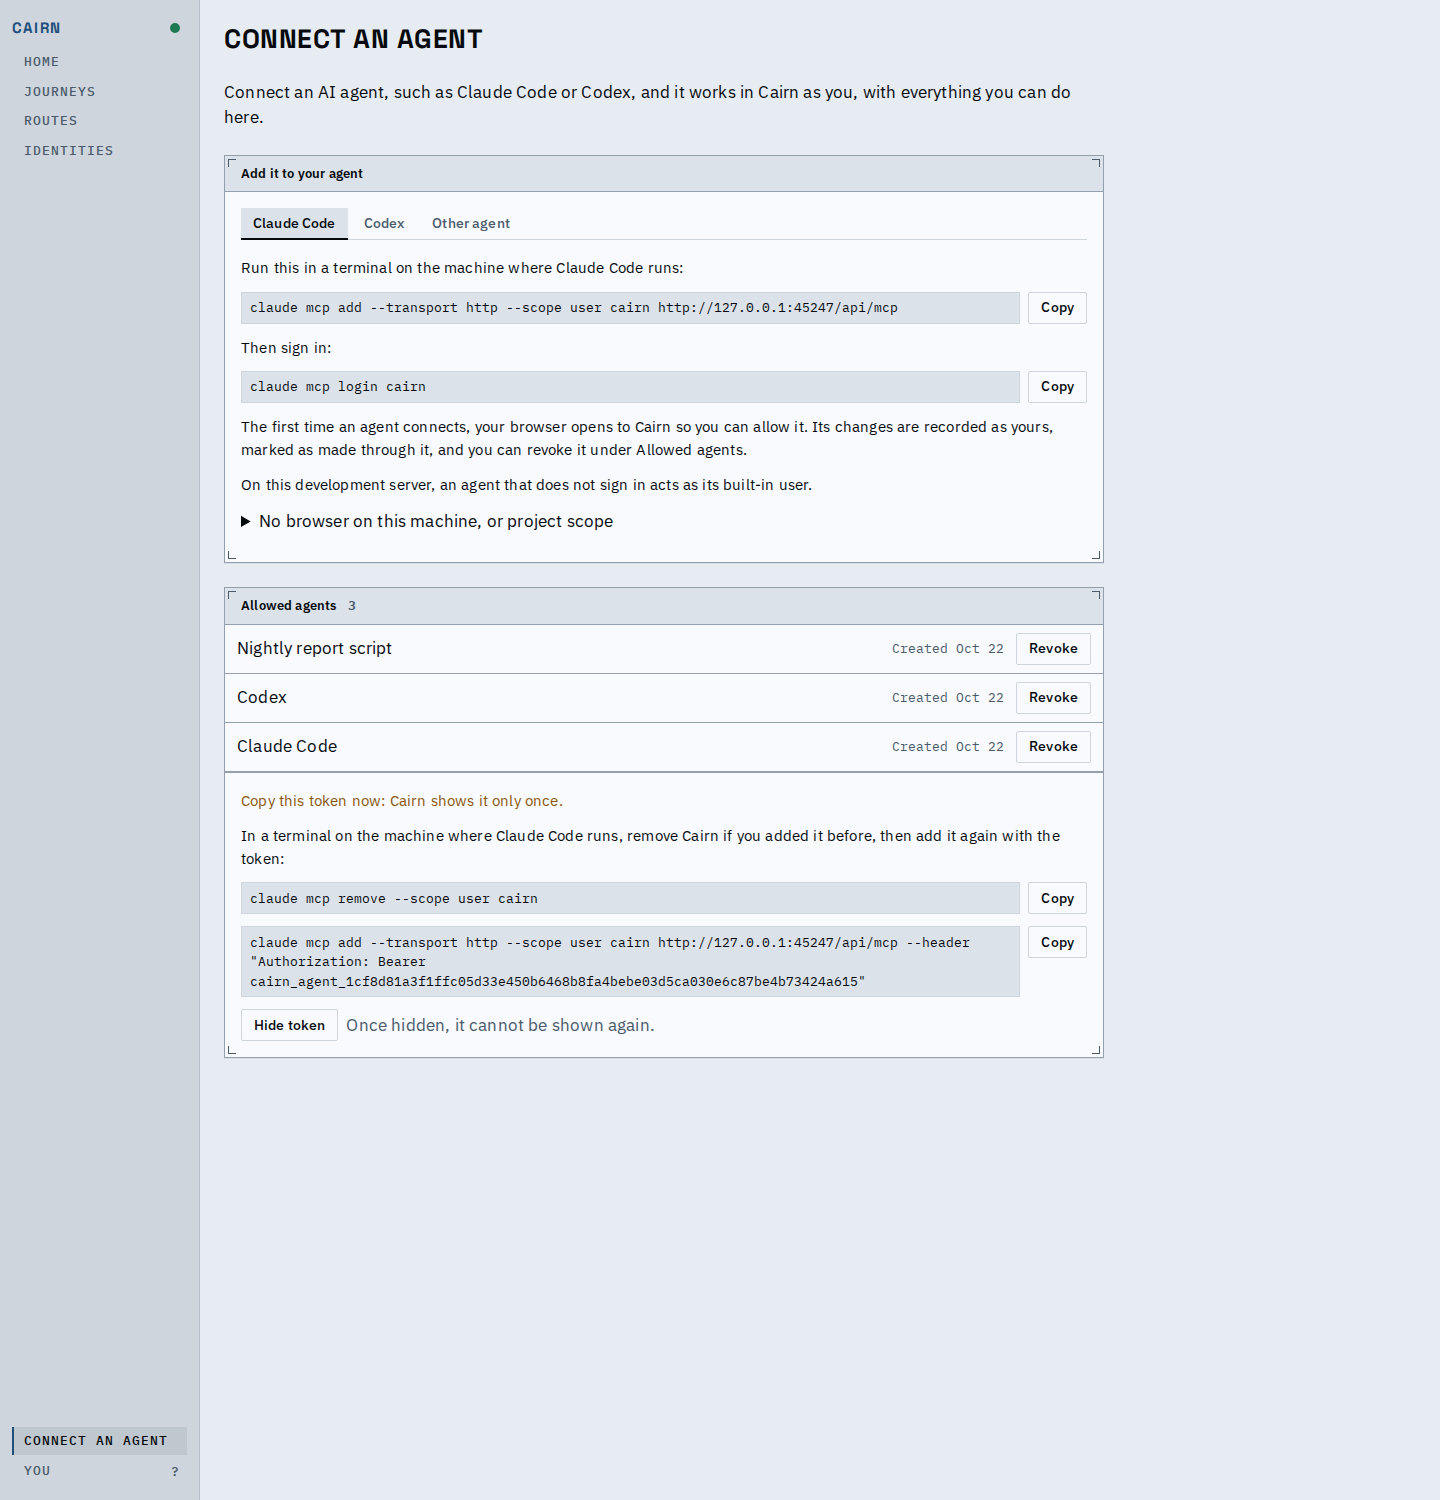
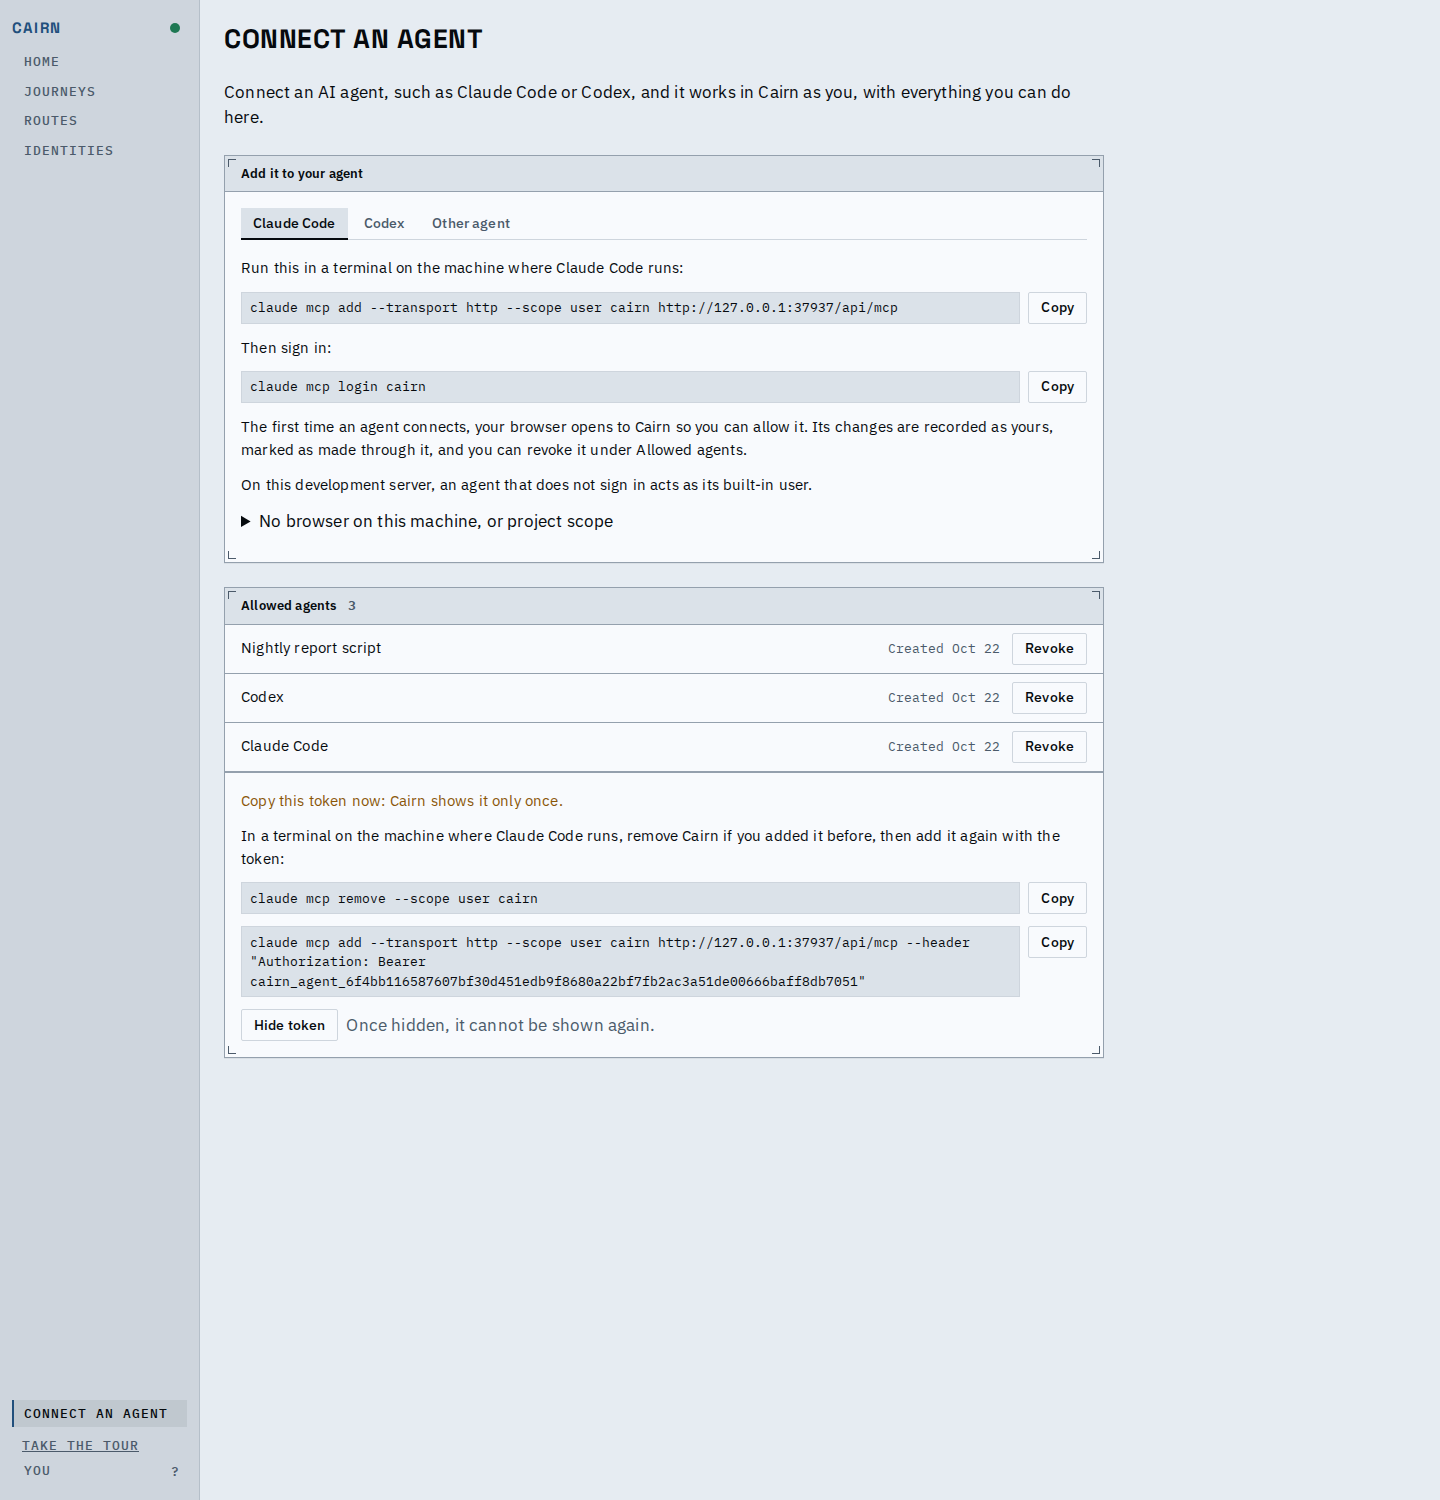
Align the allowed-agent rows with their panel's text
The rows of the Allowed agents panel sat 4px left of every other text
edge in the panel and were set larger than its body text. They now take
the panel body's 16px inset and 15px size. The design language's
one-line row rule says rows inside a panel that also holds text share
the panel's text edge. The two proof screenshots that show the rows
are retaken.

diff --git a/web/app/src/ui/app.css b/web/app/src/ui/app.css
@@ -1142,7 +1142,8 @@ table.data {
   align-items: center;
   gap: var(--space-3);
   min-height: 44px;
-  padding: var(--space-2) var(--space-3);
+  padding: var(--space-2) var(--space-4);
+  font-size: 15px;
   border-bottom: 1px solid var(--color-edge);
   background: var(--color-surface);
 }

diff --git a/DESIGN.md b/DESIGN.md
@@ -181,7 +181,7 @@ Mono uppercase is kept for labels, column headers, keys and status chips; button
 - **Label.** Uppercase Plex Mono 12px, letter-spacing .08em, steel. Use it for module titles, field labels above controls, and keys in key/value tables.
 - **Proposals panels.** Home's "Proposals to review" is one folded line after the journey groups, a count beside it ("Proposals to review 7"); opened, it holds the waiting rows, paged. The Journeys and Routes indexes' "Proposed" (only while a proposal would create one) is a bounded panel of the same rows. A row's second line says what the proposal changes, with the destination named before it where the list spans destinations, then "Needs a refresh" in warning ink ("Upgrades to version 2 and adds 1 node"); who proposed it is in the rail, not the row, and no row wears an OPEN chip. A destination's own open proposals are the Proposals tab of its inspector column, the open one marked current like a selected row. Identities has no panel of its own: it has the tab.
 - **Proposal layer.** Reviewing a proposal is the destination's own page with a layer on, never a screen or a View picker entry: the header, the View picker and the shared view controls stay, and the views draw the destination as it would be after the proposal, removed things put back in place and ghosted. The layer adds one line under the header, the band: `Reviewing "<title>"` (ellipsised, whole in its `title`), then Apply (primary) and Close (a plain button); a proposal that creates its destination says so in the same line. Changes are marked by what scales with the card, so they read at every zoom and on a phone: a fill (`--color-add`, `--color-change`, `--color-del`), a 2px edge on screen in the change's ink (the card's own border draws nothing beside it) whose style is the non-colour cue (solid added, dotted changed, dashed removed; the title struck and the card ghosted for removed), an accent outline outside the card for an item that needs a choice, and the change's word ("Added", "Changed", "Removed") leading the card's own kind line, so the kind takes the ellipsis before the word does and keeps room for it (the choice is said by the outline, the rail's fold and the card's title attribute, not by a longer word); a changed card's title and words stay at full ink however finished it is. A container carries the fill on its head band and the edge on its outline. Lists and the timeline fill the row and lead with the word (a narrow Change column in the list, on a phone too); Identities' rows take the fill and the word before the name. The graph opens framed on the changed cards (see the stock view above). The rail is the Inspector tab's content: the title, a status chip only when the proposal is not open, the notes that hold Apply or qualify the preview ("Apply waits for ...", without counts; before the attribution, so a sheet at its peek says what is to be done), who proposed it, one sentence of what it changes, then folds (Needs a choice with its count, open when it has any; Changes, whose head is the key, a swatch and count per group; what can be acted on after; all its changes) and Discard at the foot. Picking a card or row opens its item editor in the rail, with a way back to the proposal. A held Apply is `aria-disabled`, says why in its `title`, and pressing it focuses the rail's hold line. While the layer is on, in any of its states, the page offers no live write (node actions, authoring, the header's write items, the graph's menu); the Walkthrough and the Summary stay in the View picker, disabled with their reason, and their keys leave the key sheet. An archived journey's pages offer no write either, beyond un-archiving and deleting under `⋯`, Status. A control that cannot act is absent, not disabled: a node's menu keeps only where to find it.
-- **Table.** The one row component for every list of nodes (the Plan list, the frontier, folds, Home, decision lists): opaque paper rows with a `--color-edge` hairline under each, the table inside a bordered panel on the ground, a status chip column and an owner column (which, with the other columns that give way, leaves a list narrower than 810px: a phone, or a window with the inspector open, so the title keeps room for its buttons; on a phone a tree stops indenting after two levels). Rows have room (a two-line row about 64px, a one-line row 8px 12px padding); vertical hairlines between columns only in data tables opened in full. The header is a sticky band with steel labels, uppercase mono in a data table and sentence case in the Plan list, where a column that sorts is a button. Numbers are right-aligned mono with tabular figures, and secondary parts of a cell (a percentage, a rank) are steel. Hover is a neutral tint. A tree is a classic tree: for each ancestor with more children below, a continuous 1px `--color-border` vertical line through the full row height (across the row hairlines) centred on that ancestor's chevron, and for the row itself a `├` or, as the last child, a `└` joining the line to its chevron or bullet. A container's fold is a real 24px icon button with a 12px chevron in `--color-text`; a leaf has a small bullet in the same slot, so every title starts at its level's 24px column. A container row (a group or a stage) is a `--color-band` row with a 600-weight title and its progress, so it reads as the header of the rows under it. A tree keeps the levels a person opened or folded when the row set changes (a filter, Show not relevant). A primary table is its region's scroller, so its sticky header sticks to the right box; secondary tables (inside the inspector or a card) never scroll and end in "Show all" instead. A journey or route index row has a second line of context under its name; an absent figure is said in words (not a dash); and at phone width a row stacks as a block: the name, an upgrade notice if there is one, the context, then one attention line holding every fact the row has (what needs a look and what is yours, both, a fact that says nothing left out), so nothing a row says is dropped on a phone.
+- **Table.** The one row component for every list of nodes (the Plan list, the frontier, folds, Home, decision lists): opaque paper rows with a `--color-edge` hairline under each, the table inside a bordered panel on the ground, a status chip column and an owner column (which, with the other columns that give way, leaves a list narrower than 810px: a phone, or a window with the inspector open, so the title keeps room for its buttons; on a phone a tree stops indenting after two levels). Rows have room (a two-line row about 64px, a one-line row 8px 12px padding, except that rows inside a panel that also holds text take the panel body's 16px inset and 15px size, so everything in a panel shares one left edge); vertical hairlines between columns only in data tables opened in full. The header is a sticky band with steel labels, uppercase mono in a data table and sentence case in the Plan list, where a column that sorts is a button. Numbers are right-aligned mono with tabular figures, and secondary parts of a cell (a percentage, a rank) are steel. Hover is a neutral tint. A tree is a classic tree: for each ancestor with more children below, a continuous 1px `--color-border` vertical line through the full row height (across the row hairlines) centred on that ancestor's chevron, and for the row itself a `├` or, as the last child, a `└` joining the line to its chevron or bullet. A container's fold is a real 24px icon button with a 12px chevron in `--color-text`; a leaf has a small bullet in the same slot, so every title starts at its level's 24px column. A container row (a group or a stage) is a `--color-band` row with a 600-weight title and its progress, so it reads as the header of the rows under it. A tree keeps the levels a person opened or folded when the row set changes (a filter, Show not relevant). A primary table is its region's scroller, so its sticky header sticks to the right box; secondary tables (inside the inspector or a card) never scroll and end in "Show all" instead. A journey or route index row has a second line of context under its name; an absent figure is said in words (not a dash); and at phone width a row stacks as a block: the name, an upgrade notice if there is one, the context, then one attention line holding every fact the row has (what needs a look and what is yours, both, a fact that says nothing left out), so nothing a row says is dropped on a phone.
 - **Selection.** A selected row, card or list item gets a 2px accent line on its left edge (an inset box-shadow) and the faint blue tint. A selected container (a frame) is the 2px accent frame and the faint tint over its whole body, head included; only the selected node is tinted: the cards and containers inside it keep their trace marks (NEEDS and UNBLOCKS) like any other node, and so do its ancestors and the nodes outside it. The keyboard focus ring is a 2px accent outline on every interactive element. Selection and focus are the main uses of the accent.
 - **Status.** An uppercase mono label in a hairline chip, with a 6px dot: success (done or approved), error (failed or rejected), warning (deferred or attention), steel (pending), hollow (superseded), and ink, filled for actionable now and a ring for in progress. The text is always there; the dot only backs it up. No two states share a dot shape: the blocked dot is a 6px square and a skipped dot is hollow and struck through, so it differs from a hollow superseded or not-relevant one. Done and decided draw a check in the dot's place: a mask in the success colour, as tall as the chip's capitals and stroked as heavy as its text, so it scales with the chip. A done card's chip is hollow, in the success colour. Where the word cannot fit (a narrow timeline row), a hover gives it.
 - **One status language: fill says state, opacity says focus, and the lowest opacity wins.** A canvas card or container, and a list or tree row, is 1 when it is open and in focus, 0.7 when it is snoozed (`--opacity-snoozed`: off the frontier but still blocking, so "not now"), 0.5 when it is done (done, decided), and 0.3 when it is out of focus (outside a trace, not lit by Frontier, or below the depth under Depth's Fade), whatever its state; the levels are never multiplied, so a done card out of focus is 0.3 and a snoozed one too, a card dimmed by Frontier and by Depth too is still 0.3, and a trace never lifts either fade. A list row out of focus fades its content cells as a done row does, and lifts the fade under keyboard focus. Snoozed work is dimmed on its title and owner only (a list row's cells but the status and due ones, a timeline label's title, never its date words), so its state chip, its kind label and its "Until" date stay at full strength; its dimmed ink is about 7.4:1 against its paper in both themes, above the 4.5:1 floor, which is why snoozed is 0.7 and not lower. Blocked and scheduled work is not dimmed: blocked work is still the plan's next problem, and scheduled work is the plan, waiting only for its date (a row says the date under its title). A snoozed node is ordered by when it comes back: in plan order by the later of its date and the day each hold on it lifts, and in a list sorted by a signal after the unsnoozed. Done work keeps the neutral fill with muted text and the green done chip; it is faded, not filled. A done row fades its content cells (not the checkbox column, and not the row's fill, so hover, selection and focus stay full strength). A container fades its own head and frame only: its children are separate cards, so open work inside a done container stays at 1, and a container holding a node in focus is not faded. Skipped and not relevant are hollow (no fill), not relevant also muted; open work is paper. A ruled-out row is muted. A list that exists to be read for its finished work (the Summary's Recently finished, and a finished node under its Needs attention) is the one exception: its done rows stay at 1 with the done chip, because at 0.5 their text falls below the 4.5:1 floor under Contrast floors (worst in dark mode), and the page is read for them. No state takes space from titles at zoom-out.
